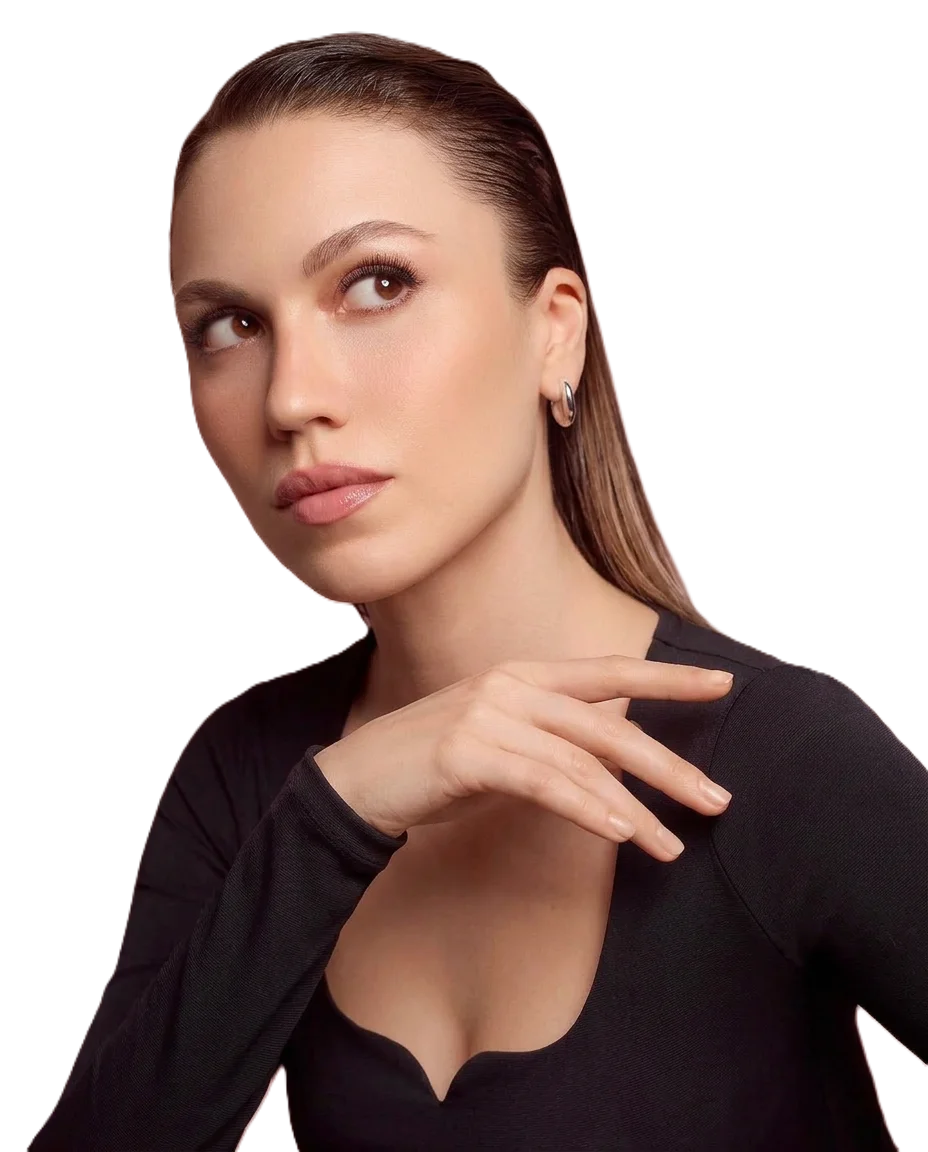
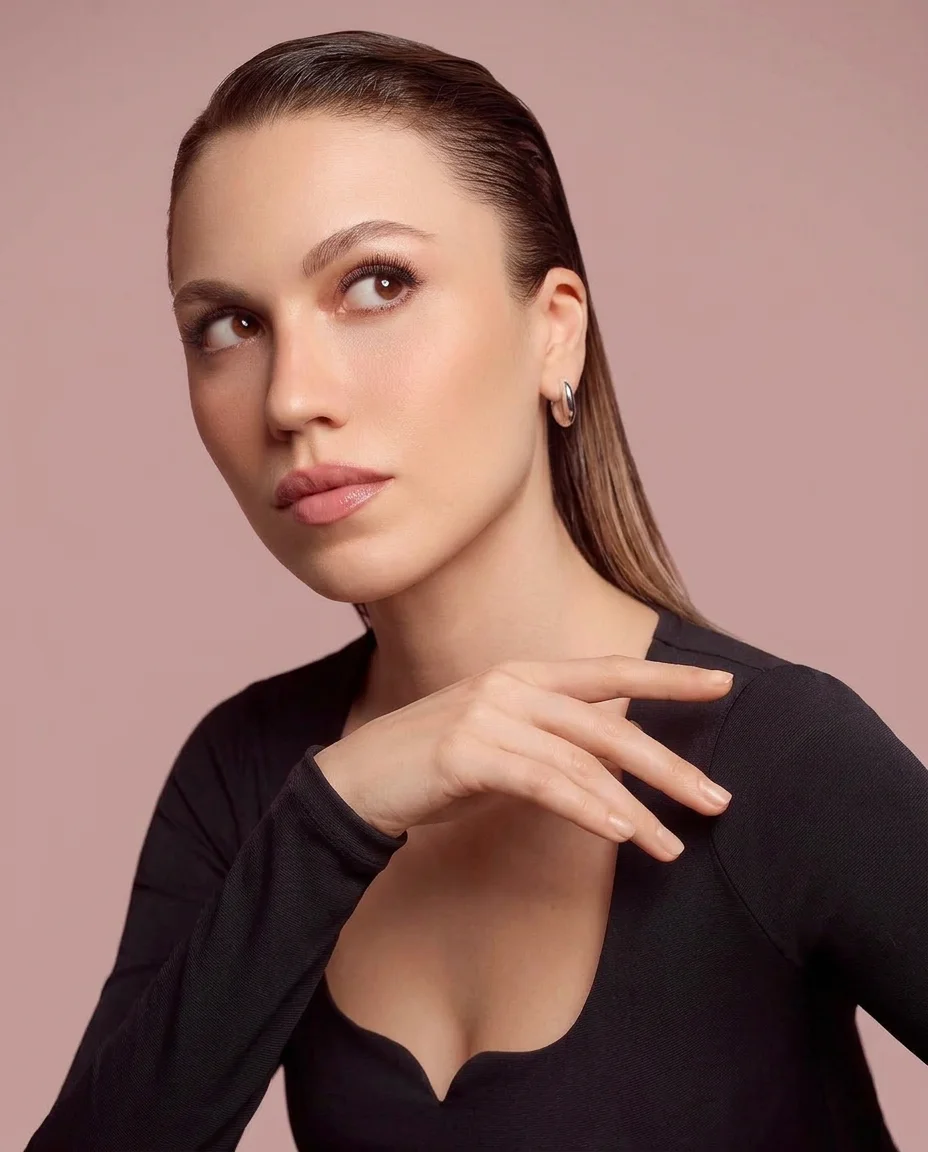
feat: update community page with new PNG images for Duygu, Jack, and Naomi to enhance visual representation

diff --git a/src/pages/community.js b/src/pages/community.js
@@ -8,7 +8,9 @@ import { getPerfumeById, REGIONS, PERFUMES, LOREAL_LUXE_PERFUMES, COMMUNITY_FORM
 import { isAIAvailable } from '../services/ai-engine.js';
 import { storage } from '../utils/storage.js';
 import { showSaveToVaultModal } from '../utils/save-modal.js';
-import duyguPhoto from '../assets/duyguozaslan.webp';
+import duyguPhoto from '../assets/community/Duygu.png';
+import jackPhoto  from '../assets/community/Jack.jpeg';
+import naomiPhoto from '../assets/community/Naomi.jpeg';
 
 // ── Seed Posts ──
 const SEED_POSTS = [
@@ -301,9 +303,9 @@ export function renderCommunity(container, navigate) {
         <div class="community-choice-row">
           <div class="community-choice-card">
             <div class="community-choice-card__photo-wrap">
-              <img src="${duyguPhoto}" alt="Duygu Özaslan" class="community-choice-card__photo" loading="lazy" decoding="async" />
+              <img src="${duyguPhoto}" alt="Duygu" class="community-choice-card__photo" loading="lazy" decoding="async" />
             </div>
-            <p class="community-choice-card__name">Duygu Özaslan</p>
+            <p class="community-choice-card__name">Duygu</p>
             <p class="community-choice-card__role">Influencer</p>
             <p class="community-choice-card__quote">"Cherry blossom and fig together feel like a spring garden by the sea — feminine, luminous, and unforgettable."</p>
             <div class="community-choice-card__combo">
@@ -317,15 +319,45 @@ export function renderCommunity(container, navigate) {
               </div>
             </div>
           </div>
-          <div class="community-choice-card community-choice-card--placeholder">
-            <div class="community-choice-card__avatar-ph"></div>
-            <p class="community-choice-card__name community-choice-card__name--ph">Coming Soon</p>
-            <p class="community-choice-card__role">—</p>
+          <div class="community-choice-card">
+            <div class="community-choice-card__photo-wrap">
+              <img src="${jackPhoto}" alt="Jack" class="community-choice-card__photo" loading="lazy" decoding="async" />
+            </div>
+            <p class="community-choice-card__name">Jack</p>
+            <p class="community-choice-card__role">Fragrance Explorer</p>
+            <p class="community-choice-card__quote">"Bold, raw, alive — the South African fynbos opens up something primal. One drop of Scandinavian oil and it becomes untamed elegance."</p>
+            <div class="community-choice-card__combo">
+              <div class="community-choice-card__layer">
+                <span style="color:${REGIONS.find(r=>r.id==='southafrica')?.color};">South Africa — Spray</span>
+                <span class="community-choice-card__amount">3 sprays</span>
+              </div>
+              <div class="community-choice-card__layer">
+                <span style="color:${REGIONS.find(r=>r.id==='scandinavian')?.color};">Scandinavian — Oil</span>
+                <span class="community-choice-card__amount">2 drops</span>
+              </div>
+            </div>
           </div>
-          <div class="community-choice-card community-choice-card--placeholder">
-            <div class="community-choice-card__avatar-ph"></div>
-            <p class="community-choice-card__name community-choice-card__name--ph">Coming Soon</p>
-            <p class="community-choice-card__role">—</p>
+          <div class="community-choice-card">
+            <div class="community-choice-card__photo-wrap">
+              <img src="${naomiPhoto}" alt="Naomi" class="community-choice-card__photo" loading="lazy" decoding="async" />
+            </div>
+            <p class="community-choice-card__name">Naomi</p>
+            <p class="community-choice-card__role">Scent Curator</p>
+            <p class="community-choice-card__quote">"Saffron and oud with a whisper of tonka — it's the kind of scent people ask about all night. Opulent, confident, unforgettable."</p>
+            <div class="community-choice-card__combo">
+              <div class="community-choice-card__layer">
+                <span style="color:${REGIONS.find(r=>r.id==='middleeast')?.color};">Middle East — Spray</span>
+                <span class="community-choice-card__amount">2 sprays</span>
+              </div>
+              <div class="community-choice-card__layer">
+                <span style="color:${REGIONS.find(r=>r.id==='southamerica')?.color};">South America — Oil</span>
+                <span class="community-choice-card__amount">2 drops</span>
+              </div>
+              <div class="community-choice-card__layer">
+                <span style="color:${REGIONS.find(r=>r.id==='mediterranean')?.color};">Mediterranean — Oil</span>
+                <span class="community-choice-card__amount">1 drop</span>
+              </div>
+            </div>
           </div>
         </div>
 
